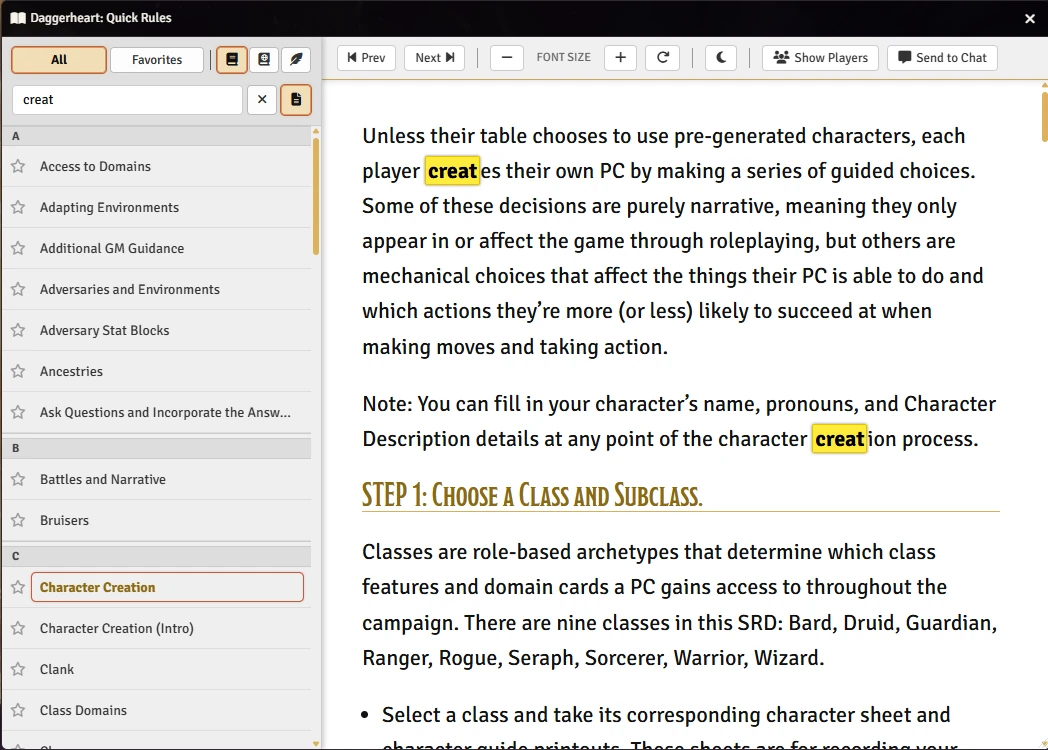
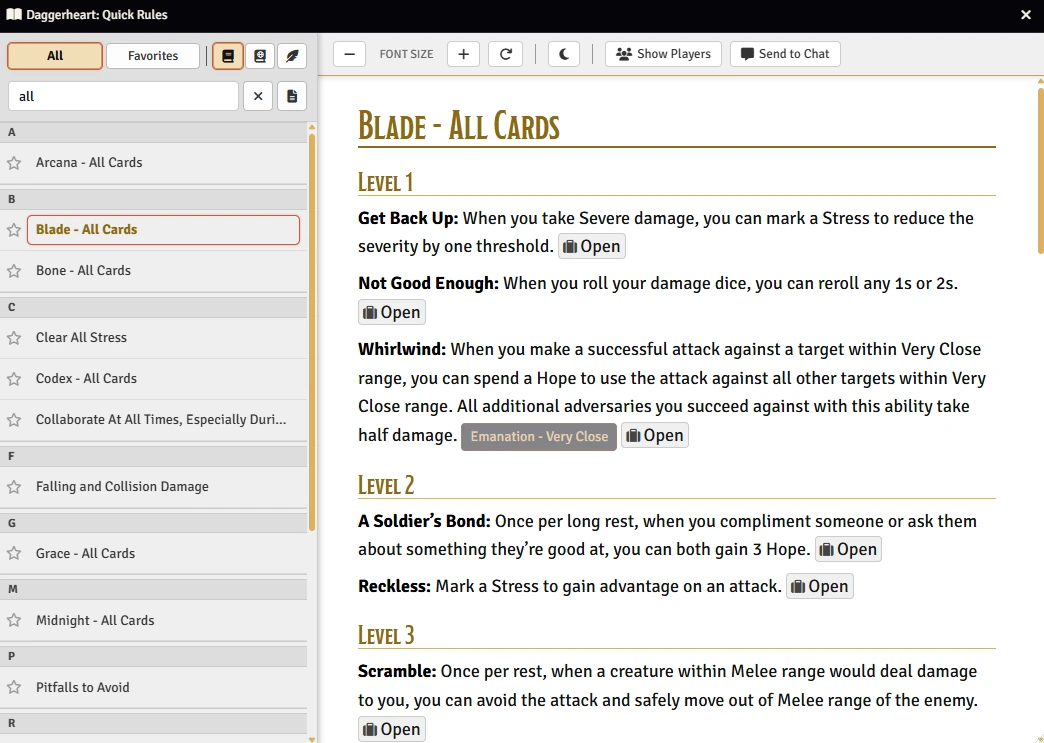
0.0.8

Changed region(s): [[0.0, 0.0, 1.0, 1.0], [0.9808, 0.1857, 1.0, 0.3405]]

diff --git a/scripts/module.js b/scripts/module.js
@@ -43,13 +43,45 @@ Hooks.once("init", () => {
 
     // Expose the class globally for console access and macros
     window.DaggerheartQuickRules = DaggerheartQuickRules;
-    // Shortcut for your specific use case:
+    // Shortcut for your specific test case:
     window.QuickRules = DaggerheartQuickRules;
 });
 
 Hooks.once("ready", () => {
     if (game.settings.get(MODULE_ID, "showFloatingButton")) {
         toggleFloatingButton(true);
+    }
+});
+
+// Hook to add button to Daggerheart Menu (sidebar)
+Hooks.on("renderDaggerheartMenu", (app, element, data) => {
+    const html = element instanceof jQuery ? element[0] : element;
+
+    const myButton = document.createElement("button");
+    myButton.type = "button";
+    myButton.innerHTML = `<i class="fas fa-book-open"></i> Open Quick Rules`; 
+    myButton.classList.add("dh-custom-btn"); 
+    myButton.style.marginTop = "10px";
+    myButton.style.width = "100%";
+    
+    myButton.onclick = () => {
+        if (window.QuickRules) {
+            window.QuickRules.Open();
+        } else {
+            ui.notifications.error("Quick Rules module not fully initialized.");
+        }
+    };
+
+    const fieldset = html.querySelector("fieldset");
+    if (fieldset) {
+        const newFieldset = document.createElement("fieldset");
+        const legend = document.createElement("legend");
+        legend.innerText = "Quick Rules"; 
+        newFieldset.appendChild(legend);
+        newFieldset.appendChild(myButton);
+        fieldset.after(newFieldset);
+    } else {
+        html.appendChild(myButton);
     }
 });
 

diff --git a/README.md b/README.md
@@ -89,7 +89,8 @@ https://raw.githubusercontent.com/brunocalado/daggerheart-quickrules/main/module
 | 🤖 [**Fear Macros**](https://github.com/brunocalado/daggerheart-fear-macros) | Automatically executes macros when the Fear resource is changed. |
 | 😱 [**Fear Tracker**](https://github.com/brunocalado/daggerheart-fear-tracker) | Adds an animated slider bar with configurable fear tokens to the UI. |
 | 🛒 [**Store**](https://github.com/brunocalado/daggerheart-store) | A dynamic, interactive, and fully configurable store for Foundry VTT. |
-| 📦 [**Extra Content**](https://github.com/brunocalado/daggerheart-extra-content) | Additional resources and materials for Daggerheart. |
+| 📦 [**Extra Content**](https://github.com/brunocalado/daggerheart-extra-content) | Homebrew for Daggerheart. |
+| ⚡ [**Quick Actions**](https://github.com/brunocalado/daggerheart-quickactions) | Quick access to common mechanics like Falling Damage, Downtime, etc. |
 | 📜 [**Quick Rules**](https://github.com/brunocalado/daggerheart-quickrules) | Fast and accessible reference guide for the core rules. |
 
 # 🗺 Adventures
